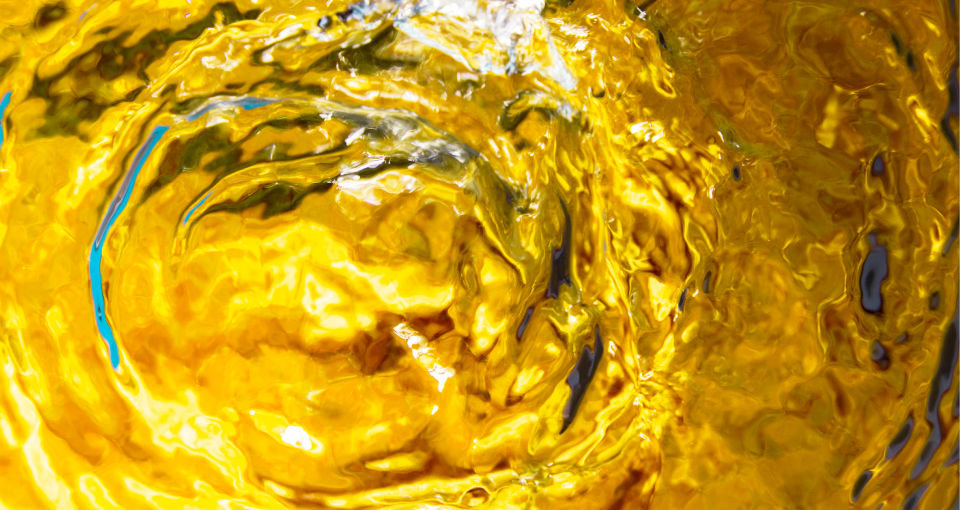
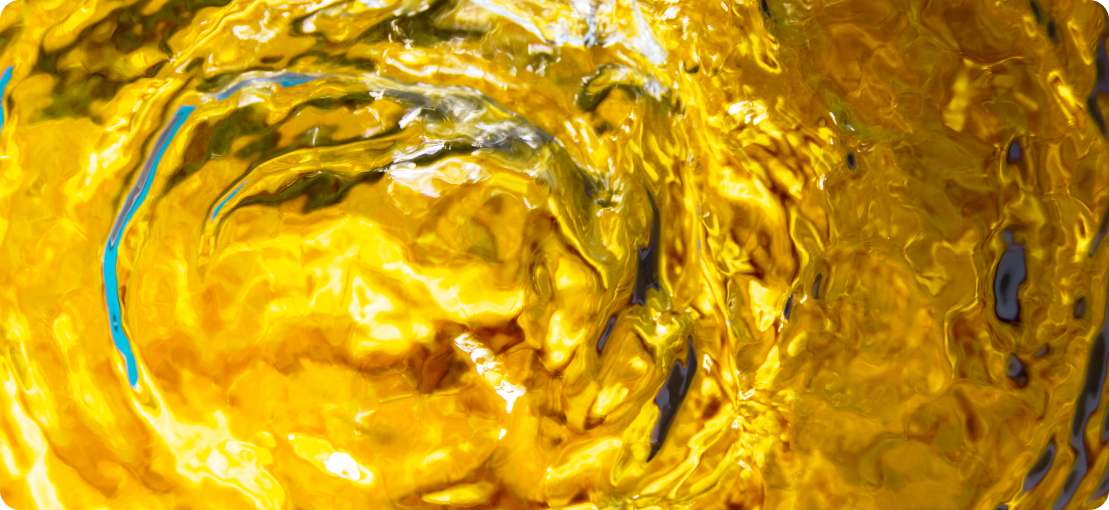
revise : oil img 대기 이미지 추가 + 레이아웃 변경

diff --git a/sinilfood/src/assets/styles/global.css b/sinilfood/src/assets/styles/global.css
@@ -291,16 +291,38 @@
     height: auto;
     border-radius: 5px;
   }
+  .oil-section {
+    display: flex;
+    justify-content: space-between; /* 이미지 간격 조절 */
+    align-items: center; /* 이미지 세로 정렬 */
+    gap: 20px; /* 두 이미지 사이의 간격 */
+    max-width: 1200px; /* 섹션 너비 */
+    margin: 0 auto; /* 가운데 정렬 */
+  }
   
-  /* 오버레이 스타일 */
+  .oil-item {
+    position: relative;
+    flex: 2; /* 왼쪽 이미지는 더 큰 비율 */
+    border-radius: 5px; /* 모서리 둥글게 */
+    overflow: hidden; /* 경계선 넘는 부분 숨김 */
+  }
+  
+  .oil-item:nth-child(2) {
+    flex: 1; /* 오른쪽 이미지는 더 작은 비율 */
+  }
+  
+  .oil-image {
+    width: 100%; /* 이미지의 너비를 컨테이너에 맞춤 */
+    height: auto; /* 비율 유지 */
+  }
+  
   .overlay {
-    
     position: absolute;
     top: 0;
     left: 0;
     width: 100%;
     height: 100%;
-    background-color: rgba(0, 0, 0, 0.5);
+    background-color: rgba(0, 0, 0, 0.5); /* 어두운 오버레이 */
     display: flex;
     align-items: center;
     justify-content: center;
@@ -313,12 +335,9 @@
     text-align: center;
     font-size: 42px;
     font-weight: 700;
-    line-height: 65px;
-    letter-spacing: -0.05em;
-    text-align: left;
-  
+    line-height: 1.5; /* 줄 간격 */
   }
-  
+
   
   /* 전국직영센터 섹션 스타일 */
   .center-section {

diff --git a/sinilfood/src/pages/Home/Home.js b/sinilfood/src/pages/Home/Home.js
@@ -7,7 +7,9 @@ import shinliFoodyellowImage from '../../assets/img/SHINLI FOOD.png'; // SHINLI 
 import phoneIcon from '../../assets/img/phone.png'; // 전화 아이콘 이미지 추가
 import headsetIcon from '../../assets/img/headset.png'; // 헤드셋 아이콘 이미지 추가
 import fc_oil from '../../assets/img/fc_oil.png'; // 전화 아이콘 이미지 추가
+import fc_oil_next from '../../assets/img/fc_oil_next.png'; // 전화 아이콘 이미지 추가
 import store_oil from '../../assets/img/store_oil.png'; // 헤드셋 아이콘 이미지 추가
+import store_oil_next from '../../assets/img/store_oil_next.png'; // 헤드셋 아이콘 이미지 추가
 import truckImage from '../../assets/img/truck.png'; // 헤드셋 아이콘 이미지 추가
 //협력사 로고 이미지
 import cjFreshwayLogo from '../../assets/img/cooperate/CJ프레시웨이.png';
